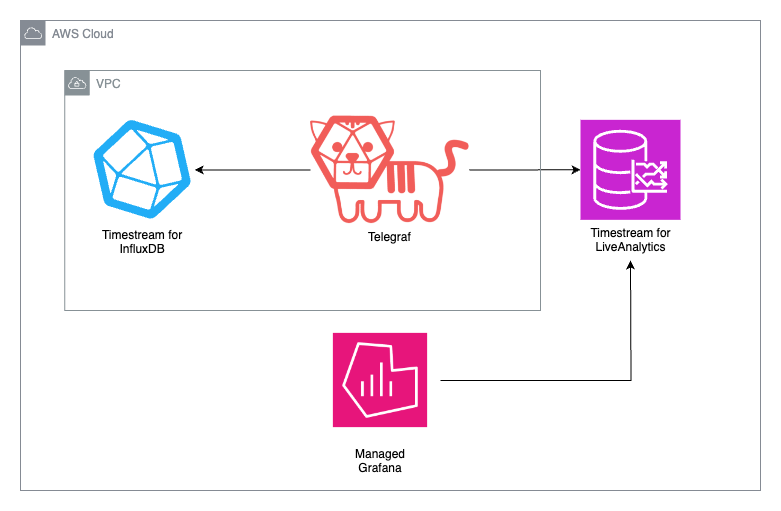
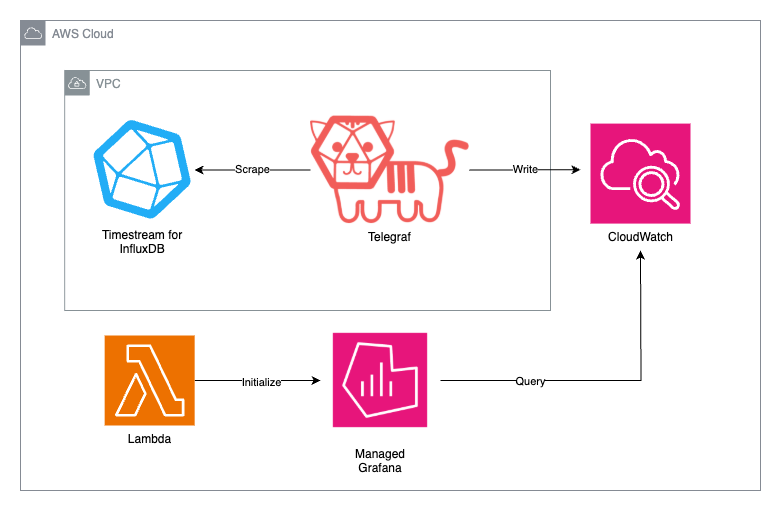
Updating documentation to reflect new storage solution and updating architecture diagram.

diff --git a/integrations/influxdb_metrics_dashboard/README.md b/integrations/influxdb_metrics_dashboard/README.md
@@ -2,7 +2,7 @@
 
 ## Overview
 
-The InfluxDB Metrics Dashboard creates a Grafana dashboard to visualize existing Timestream for InfluxDB instance performance metrics. The application deploys an EC2 instance running Telegraf to scrape the `/metrics` endpoint of a Timestream for InfluxDB instance, and ingest the scraped metrics to Timestream for LiveAnalytics. After the CloudFormation stack has been deployed, a Lambda function creates a Grafana workspace, and uploads the performance metrics dashboard. The Lambda function is run only once during CDK app initialization.
+The InfluxDB Metrics Dashboard creates a Grafana dashboard to visualize existing Timestream for InfluxDB instance performance metrics. The application deploys an EC2 instance running Telegraf to scrape the `/metrics` endpoint of one or more Timestream for InfluxDB instances in a VPC, and ingests the scraped metrics to CloudWatch. After the CloudFormation stack has been deployed, a Lambda function creates a Grafana workspace, and uploads the performance metrics dashboard. The Lambda function is run only once during CDK app initialization and uploads the JSON configuration for your Grafana dashboard.
 
 <img src="./images/architecture.png" alt="drawing" width="800"/>
 
@@ -22,9 +22,9 @@ The following context options are required when deploying the CDK application:
 The following context options are optional when deploying the CDK application:
 
 1. **GrafanaWorkspaceName**: The name used for the Grafana worspace. The context defaults to `InfluxDBMetricDashboardWorkspace`.
-2. **TimestreamDatasourceName**: The name of the data source used for populating the dashboard. The context defaults to `Amazon Timestream for LiveAnalytics Sample Data Source`.
+2. **CloudWatchDatasourceName**: The name of the data source used for populating the dashboard. The context defaults to `Amazon CloudWatch Data Source`.
 3. **DashboardName**: The name used for the Grafana dashboard. The context defaults to `InfluxDB Performance Dashboard`.
-4. **DatabaseName**: The name of the Timestream database where the InfluxDB metrics are stored. The context defaults to `InfluxDBMetrics`.
+4. **TelegrafSshCidr**: The CIDR IP address used in a rule to allow SSH access to the EC2 instance running Telegraf. If the context is not used when deploying the application, no SSH rule will be added to the EC2 instance security group.
 
 ## Getting started
 
